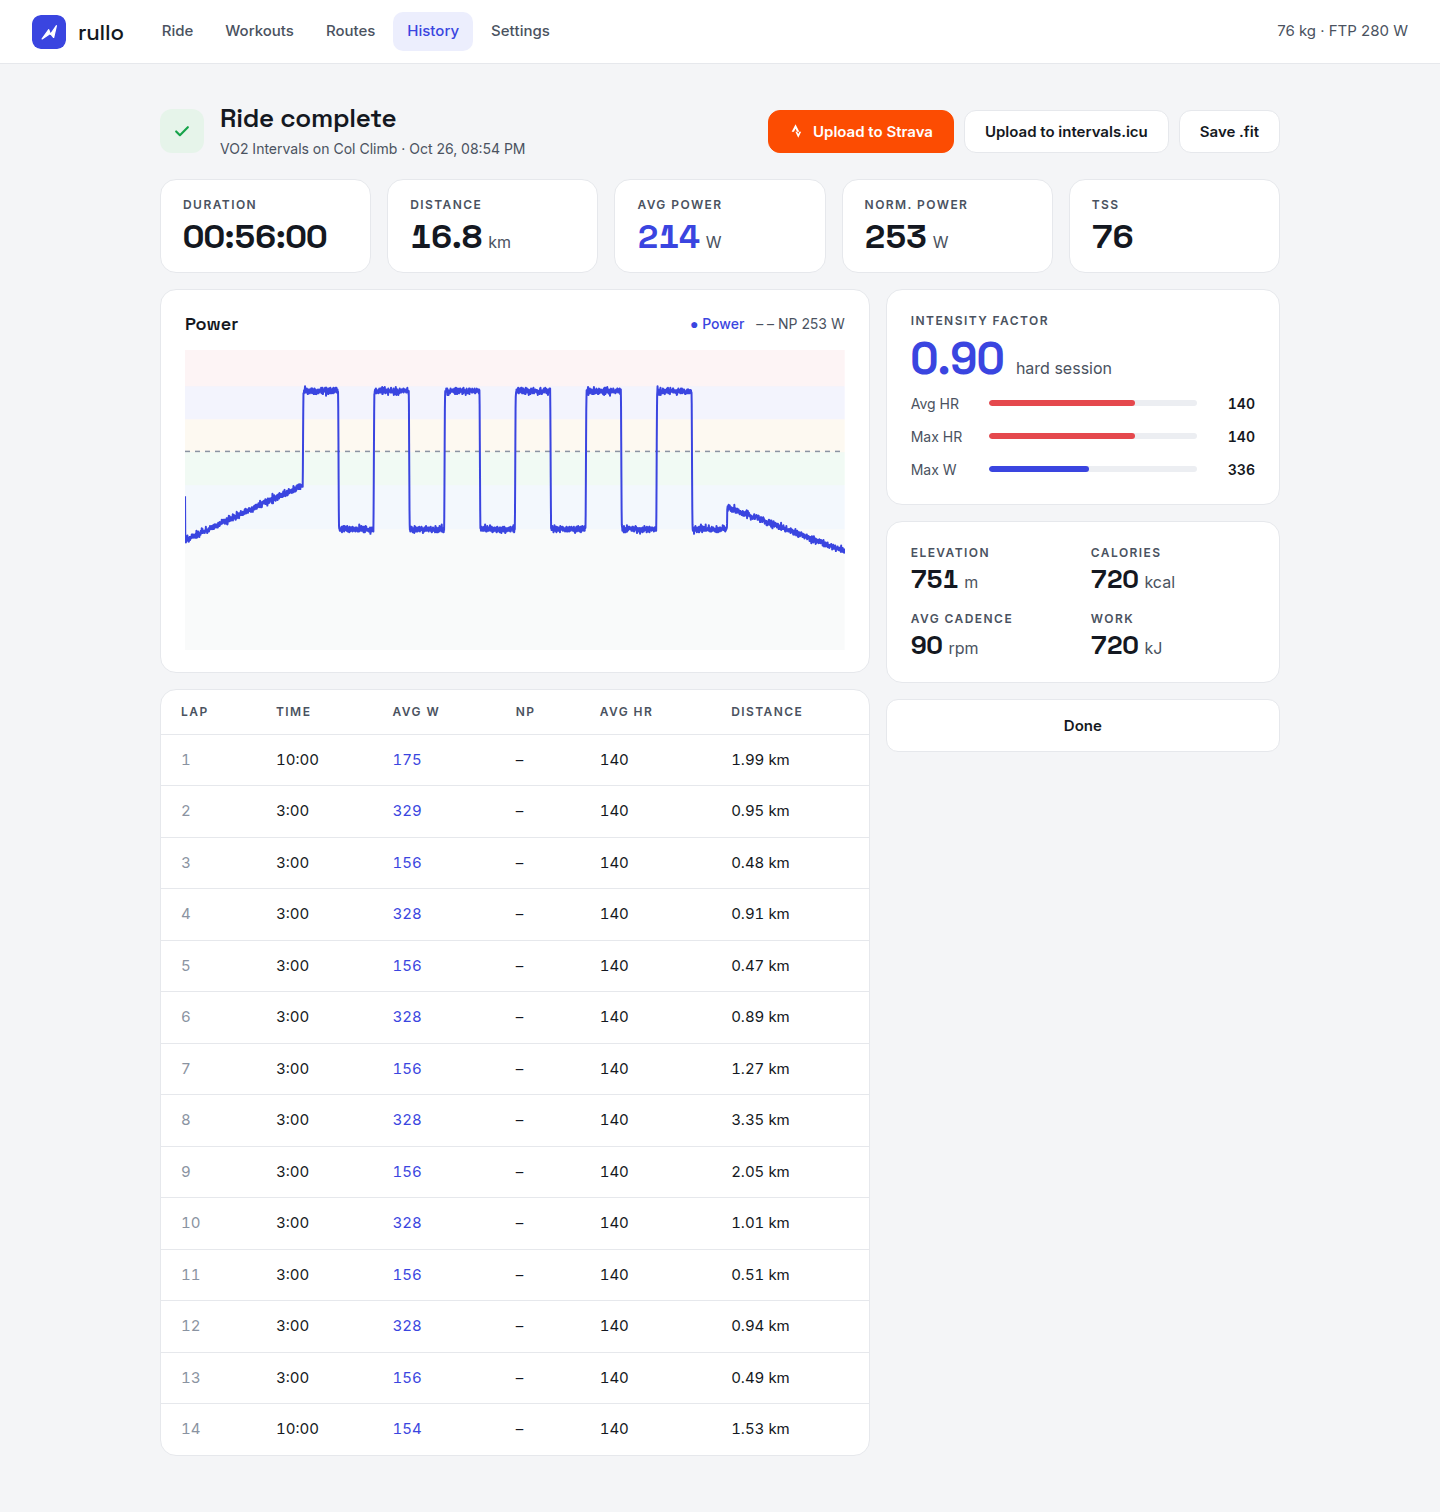
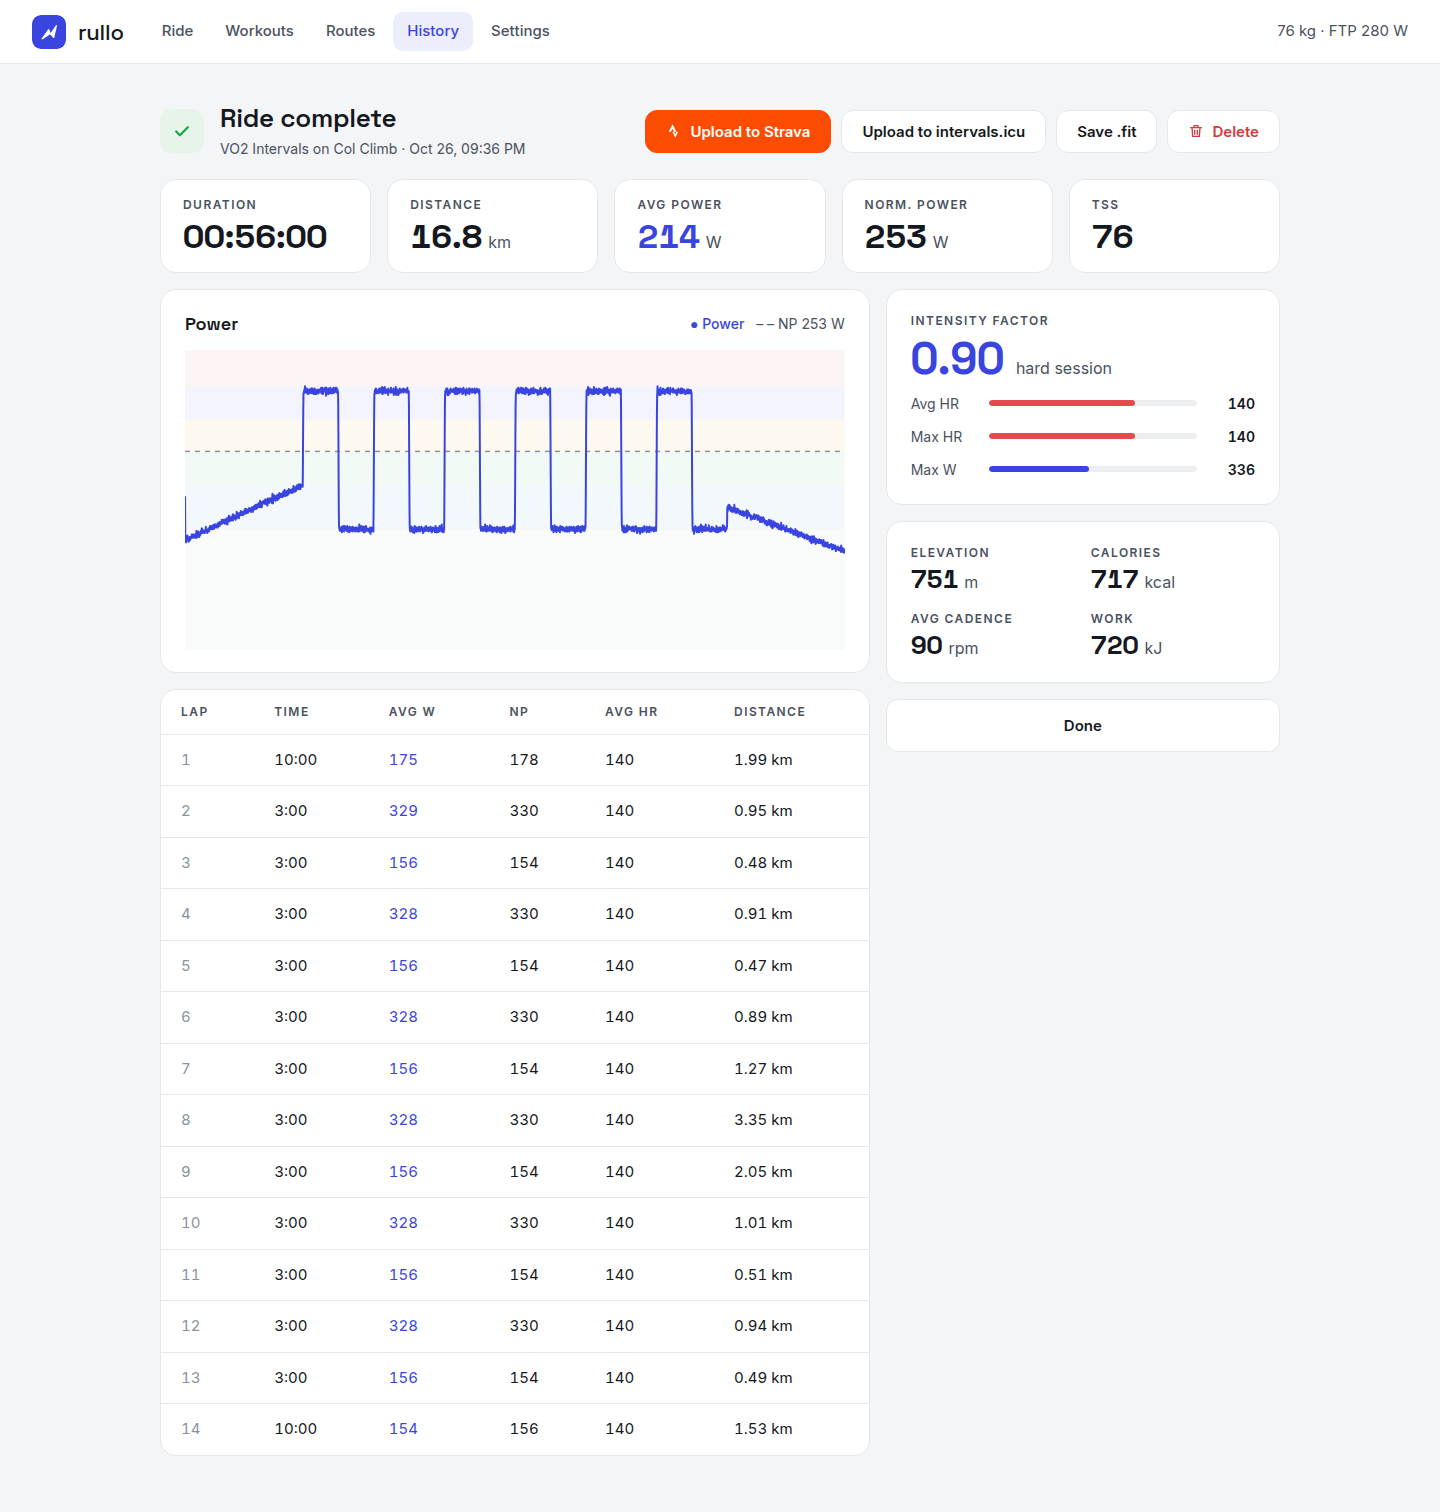
docs: refresh screenshots and document ride deletion
Claude-Session: https://claude.ai/code/session_01BpavCVU3HUoULavGMNBQMn

diff --git a/README.md b/README.md
@@ -15,8 +15,8 @@ Strava or intervals.icu.
 | ![Pairing screen](docs/screenshots/pair.png) | ![Workout picker](docs/screenshots/workouts.png) |
 | **Ride summary** | **Routes** |
 | ![Ride summary with power chart and laps](docs/screenshots/summary.png) | ![Route picker](docs/screenshots/routes.png) |
-
-<p align="center"><img src="docs/screenshots/ride-phone.png" alt="Ride screen on a phone-sized window" width="260"></p>
+| **History** | **Ride screen on a phone** |
+| ![Ride history](docs/screenshots/history.png) | <img src="docs/screenshots/ride-phone.png" alt="Ride screen on a phone-sized window" width="240"> |
 
 ## Quickstart
 
@@ -34,7 +34,8 @@ In the app:
 3. **Start ride**: the HUD shows power with zones, the workout or course card,
    the live elevation profile, cadence, heart rate, speed and distance.
 4. **Summary**: NP, IF, TSS and laps; *Save .fit*, *Upload to Strava* or
-   *Upload to intervals.icu*. Every ride is in **History**.
+   *Upload to intervals.icu*. Every ride is in **History**, where you can reopen
+   or delete it.
 
 Set your weight, FTP, trainer difficulty and the upload accounts in
 **Settings**. For Strava, create an API application at

diff --git a/CHANGELOG.md b/CHANGELOG.md
@@ -34,6 +34,8 @@ and this project adheres to [Semantic Versioning](https://semver.org/spec/v2.0.0
   The ride screen has a power ring gauge against FTP, a workout interval
   strip, a 2x2 metric grid and the route profile.
 - Per-lap NP and estimated calories in the ride summary.
+- Delete rides from History or the ride summary (`DELETE /api/rides/<id>`);
+  copies already uploaded elsewhere are not touched.
 - Logo and favicon, and a consistent layout on every page and screen size.
 - CONTRIBUTING, CODE_OF_CONDUCT, SECURITY, and issue and pull request templates.
 - Course model with GPX import; three synthetic demo routes.
